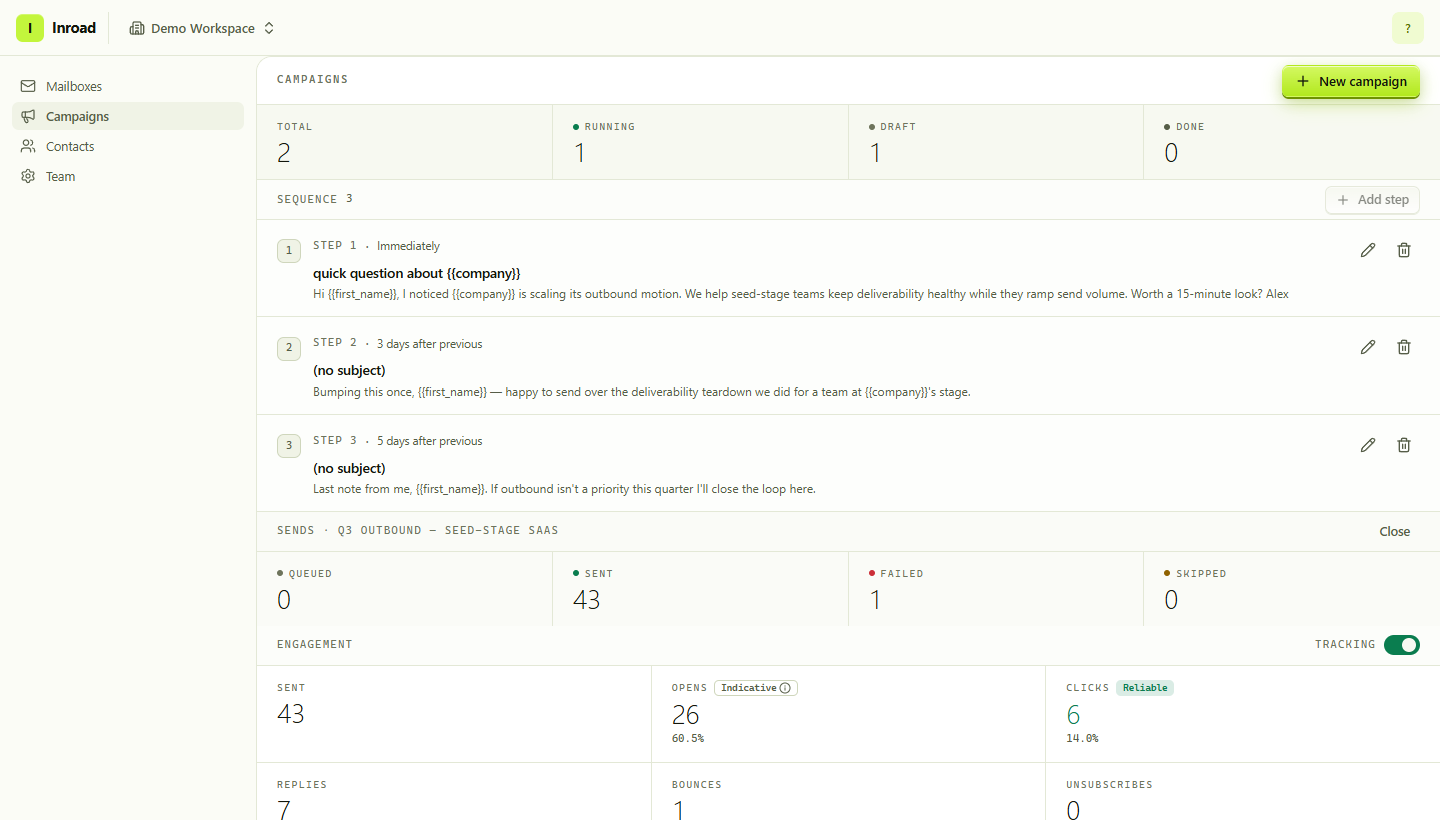
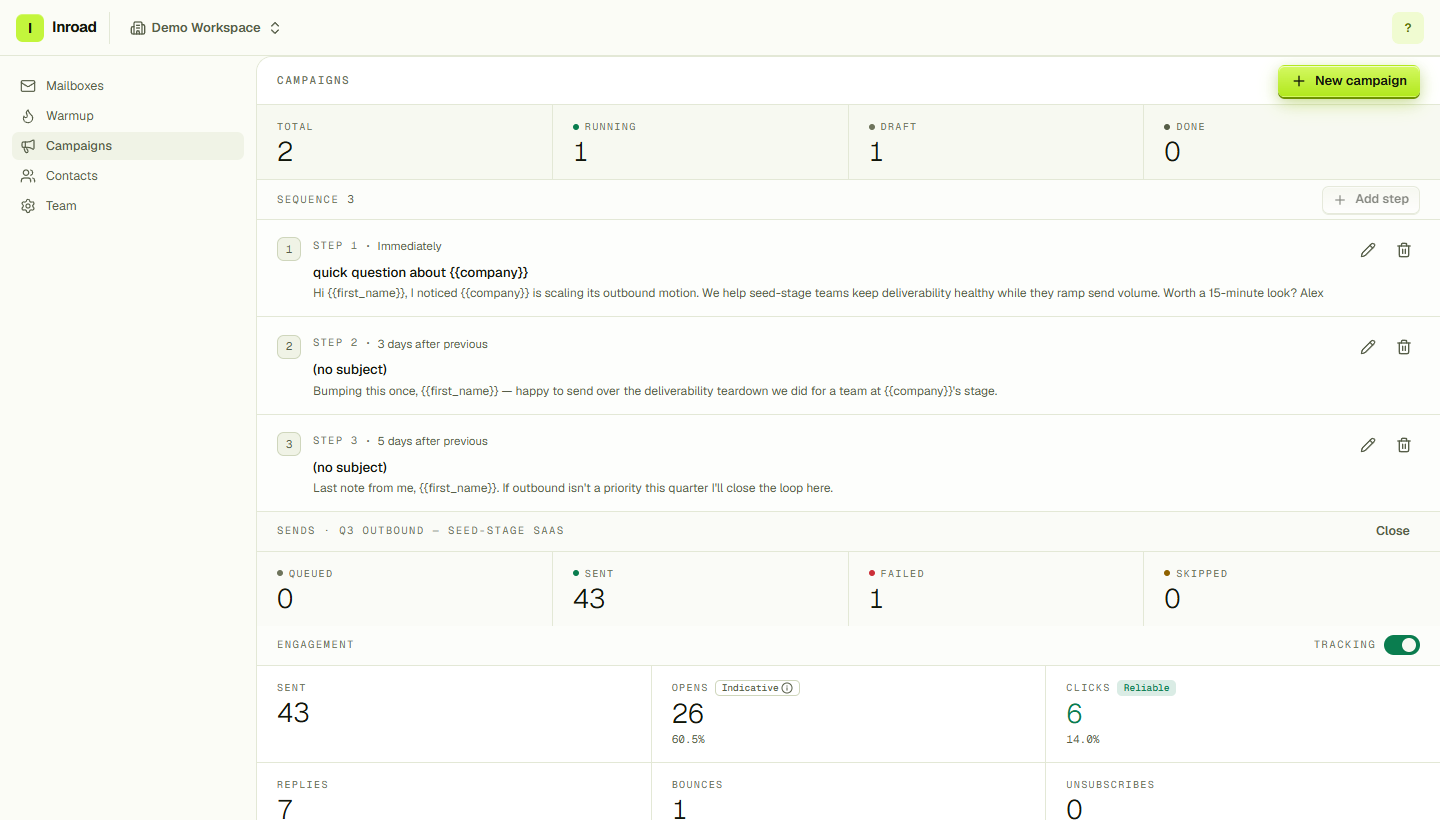
updated docs and general cleanup

diff --git a/web/src/styles/globals.css b/web/src/styles/globals.css
@@ -1,6 +1,15 @@
 @import "tailwindcss";
 @import "tw-animate-css";
 
+/* Typeface — Geist Sans + Geist Mono (SIL OFL 1.1), self-hosted.
+   Bundled from node_modules by Vite, so there is no runtime webfont CDN and
+   nothing to allow in the CSP; the `unicode-range` subsets mean a latin
+   reader downloads only the latin woff2. Variable (100–900), so the whole
+   type scale — font-light stat values through font-semibold buttons — comes
+   from one file per subset. */
+@import "@fontsource-variable/geist";
+@import "@fontsource-variable/geist-mono";
+
 /* Light is the default theme; add `.dark` on <html> to switch. */
 @custom-variant dark (&:where(.dark, .dark *));
 
@@ -180,8 +189,10 @@
   --radius-lg: var(--radius);
   --radius-xl: calc(var(--radius) + 4px);
 
-  --font-sans: system-ui, -apple-system, "Segoe UI", Roboto, Helvetica, Arial, sans-serif;
-  --font-mono: ui-monospace, "Cascadia Code", "JetBrains Mono", "SF Mono", Menlo, Consolas, monospace;
+  /* The system stack stays as the fallback so a failed font load degrades to
+     the OS UI face rather than to Times. */
+  --font-sans: "Geist Variable", system-ui, -apple-system, "Segoe UI", Roboto, Helvetica, Arial, sans-serif;
+  --font-mono: "Geist Mono Variable", ui-monospace, "Cascadia Code", "JetBrains Mono", "SF Mono", Menlo, Consolas, monospace;
 }
 
 body {

diff --git a/docs/architecture.md b/docs/architecture.md
@@ -61,3 +61,19 @@ Once `processMessage` (`internal/worker/inbox/poll.go`) matches an inbound messa
 - **Everything else (`positive`/`negative`/`neutral`/`unknown`) → stop, tagged.** Routes to `MarkReplied`, which stops the enrollment (reason `replied`) and records the sentiment.
 
 The verdict persists on `sequence_enrollments` — `reply_class`, `reply_source`, `reply_confidence`, `replied_at` (migration `000014`, all nullable, with a CHECK pinning `reply_class` to the seven classes or NULL). A legacy direct-send match (no enrollment) still suppresses on opt-out; the tagged enrollment writes no-op coreapi-side.
+
+**Warm-up mail bypasses this path entirely.** Before classification, `processInbound` checks for a verified `X-Inroad-Warmup` token; a warm-up message is recorded and returns *before* `processMessage`, so it never reaches reply/bounce handling (see the Warm-up engine below and `docs/security.md` invariant 25).
+
+## Warm-up engine
+Warm-up builds and maintains mailbox sender reputation by having a workspace's own opted-in mailboxes exchange low-volume, human-looking mail and engage with it the way a real recipient would. It reuses the existing send seam, SSRF guard, claim-before-send idempotency, `coreapi` boundary, and workspace-pinning — it adds no new worker→DB path. Design spec: `docs/superpowers/specs/2026-07-26-warmup-engine-design.md`; migration `000018_warmup` (+ `000019` receipt locator).
+
+- **Pool model — workspace-local.** A mailbox only warms other enabled, healthy participants in the SAME workspace (`warmup_participants`), so every query stays `workspace_id`-pinned and no mail crosses tenants. A workspace needs ≥2 participants; below that the engine idles (surfaced in the UI).
+- **The loop.** (1) **Send** — the `warmup:tick` worker claims and sends a warm-up email from a mailbox to a chosen partner: a new thread, or (weighted by the participant's `reply_rate`) a reply on an existing open thread. Content comes from a curated static library behind an injected `warmup.ContentGenerator` seam (an AI generator drops in later, exactly like the reply-classifier's `ModelClassifier`). Each send carries a signed `X-Inroad-Warmup` receipt token. (2) **Detect** — the recipient's inbox poller scans INBOX *and* the provider's spam folder, verifies the token, records a `warmup_receipt` with the placement (inbox / spam / other), and — critically — **isolates** the message from campaign classification. (3) **Engage** — a delayed `warmup:engage` task rescues the message from spam (IMAP `MOVE`, Gmail label modify), marks it read, and sometimes replies in-thread (a new warm-up send with its own claim + token). (4) **Health** — placement is attributed to the **sender** (`warmup_sends.from_mailbox`); `EvaluateWarmupHealth` rolls a trailing spam-placement rate into a state machine `healthy → watch → throttled → paused` that dampens the next ramp target and, when paused, halts sending until a clean window elapses.
+- **Scheduling.** A `warmup:sweep` scheduler tick (`@every 5m`) fans out due mailboxes (ramp target from `warmup.RampTarget` + a deterministic per-day volume factor + jitter, minus the send/spacing already used today) and runs the health evaluation. The send worker also lazily chains the next tick after each send.
+- **Seams.** Control plane: `internal/app/warmup/` (store/service/handler for the `PUT/DELETE/GET /mailboxes/{id}/warmup` + `GET /warmup/overview` API) and the `coreapi` warm-up methods (send-job, claim, receipt, engage-job, health). Execution plane: `internal/worker/warmup/{send,engage,sweep}.go` + the receipt hook in `internal/worker/inbox/poll.go`. Pure, offline, testable helpers (content library, HMAC token, ramp/jitter/health math) live in `internal/platform/warmup/`; the recipient-side write actions are behind the `mail.Engager` seam (IMAP + Gmail; M365 is a documented follow-up).
+
+## Worker routing & transport
+Two pieces of distributed-worker groundwork landed with warm-up (they are transport-neutral and used by campaign sends too, once wired):
+
+- **Transport-bus seam (`internal/platform/bus`).** A small `Dispatcher`/`PeriodicScheduler` interface expressing delivery *intent* (deliver-once, deliver-at, deliver-after, periodic). The only shipped implementation is `redisbus` over the existing asynq client; a Kafka/NATS implementation drops in without touching domain or worker code — the same "interface + one impl" pattern as `coreapi` and the reply-classifier model seam. (See ADR 0002.)
+- **Per-IP worker routing.** A worker heartbeats into a global `workers` registry with its `INROAD_WORKER_ID` + optional `INROAD_WORKER_EGRESS_IP`; `AssignMailboxWorker` least-loaded-assigns each mailbox to a live worker (`mailbox_worker_assignments`, workspace-pinned; migration `000017`) so a mailbox's outbound mail consistently egresses from one worker/IP. The worker's outbound dialer binds that egress IP as the *source* address only — it never bypasses the `vetAddr` destination check (`docs/security.md` invariants 22–24). Single-node dev degrades cleanly to a shared default queue.

diff --git a/docs/security.md b/docs/security.md
@@ -215,6 +215,47 @@ or SSRF. (Not a full threat model; that's future work.)
     registry is global infrastructure state — it holds no tenant rows and is never
     returned on a tenant-facing API.
 
+## Warm-up engine
+25. **Warm-up mail is strictly isolated from campaign reply/bounce handling.** The
+    inbox poller detects a warm-up message (invariant 26) and records it BEFORE
+    campaign classification, then returns — a warm-up message never reaches
+    `MarkReplied`/`MarkBounced`/`MarkUnsubscribed`/`RecordReplyClass`, even when its
+    `In-Reply-To`/`References` match a real prior send. So warm-up traffic can never
+    stop, suppress, or bounce a campaign enrollment (`internal/worker/inbox/poll.go`,
+    proven by `TestPollInboxWarmupRecordedEngagedAndIsolated` — same message, opposite
+    outcome, gated only on token validity).
+26. **A message is treated as warm-up only after its HMAC token verifies.** Every
+    warm-up send carries an `X-Inroad-Warmup` header signed with a per-deployment
+    secret (`INROAD_WARMUP_SECRET`, ≥16 bytes, falling back to `JWTSecret`);
+    `warmup.Verify` is a constant-time HMAC check AND the signed payload's
+    `workspace_id` must equal the polled mailbox's workspace. An absent, unsigned,
+    forged, or cross-workspace header falls through to normal classification —
+    an external party without the secret cannot forge one, so cannot swallow a real
+    reply as "warm-up" or inject a cross-tenant receipt.
+27. **Every warm-up query is `workspace_id`-pinned, every insert self-enforces
+    tenancy, and delivery is claim-idempotent.** Partner selection stays in-workspace
+    (a mailbox never warms a foreign peer); `warmup_threads`/`warmup_sends`/
+    `warmup_receipts` inserts are `INSERT … SELECT … FROM mailboxes WHERE id=$ AND
+    workspace_id=$` so a mismatched pair writes zero rows (upholds invariant 4);
+    the warm-up send + reply reuse the same claim-before-send lease as campaign sends
+    (deterministic id → a retry recovers-forward, never double-sends), and a receipt
+    is idempotent on `(warmup_send_id, recipient_mailbox)`.
+28. **Recipient-side engagement acts only on the recipient's own mailbox, through the
+    same guarded dials, and never builds raw IMAP commands from message content.**
+    The rescue-from-spam / mark-read / reply transport is resolved by a
+    `workspace_id`-pinned lookup for that receipt's recipient — an attacker cannot
+    steer it to another mailbox or tenant. IMAP dials go through the same `vetAddr`
+    SSRF guard + source-IP bind as the poller (Gmail/Graph use fixed hosts). The
+    attacker-influenceable `Message-ID` and source-folder are passed as go-imap
+    quoted/literal protocol arguments (`SEARCH HEADER`, `SELECT`), never
+    string-concatenated — no IMAP command injection (`TestSearchByMessageIDInjectionSafe`).
+29. **Inbox-vs-spam placement is attributed to the SENDER, not the observing
+    recipient.** A warm-up message landing in spam degrades the *sender's* health
+    (its outbound mail is not landing), resolved via `warmup_sends.from_mailbox`; the
+    recipient only observes it. Attributing spam to the recipient would invert the
+    health signal — punishing the innocent inbox owner and never flagging the bad
+    sender.
+
 ## Deferred (documented, not yet built)
 - Cloud KMS as a second `KeyProvider` (KEK) behind the existing seam — today only
   `LocalKeyProvider` (wraps DEKs under `INROAD_MASTER_KEY`) is implemented.
@@ -230,6 +271,13 @@ or SSRF. (Not a full threat model; that's future work.)
   the contact or stops its enrollment. This is bounded (no cross-tenant effect, no
   data read) but unthrottled and unlogged today; a rate limit + audit trail on
   reply-driven state changes is the intended hardening.
+- Rate limiting + an audit log on warm-up engagement writes. Like the reply path
+  (above), the receipt/engage enqueue is workspace-bounded but spoofable WITHIN a
+  workspace by anyone holding the `INROAD_WARMUP_SECRET`. Bounded and low-value, but
+  it should be included when the reply-driven abuse-controls work lands.
+- Graph/M365 recipient-side engagement (rescue/mark-read). Warm-up SENDS work on all
+  three transports; the `mail.Engager` seam implements IMAP + Gmail, and M365 returns
+  `ErrEngageUnsupported` (a logged skip) until the Graph modify path is added.
 
 ## Checklist for a security-sensitive change
 - [ ] New stored credential? → sealed via a workspace Sealer from

diff --git a/README.md b/README.md
@@ -46,7 +46,8 @@ infrastructure than rent it.
 |---|---|
 | **Multi-step sequences** | Ordered steps with per-step delays, drag-to-reorder, and `{{first_name}}` / `{{company}}` merge fields. Structural edits are draft-only; copy edits stay live on a running campaign. |
 | **Three transports, one seam** | Gmail API, Microsoft Graph, and SMTP/IMAP behind a single `MultiSender`. The worker doesn't know or care which one it's using. |
-| **Warm-up ramp + daily caps** | Every mailbox ramps linearly from a small starting cap to its full daily cap over N days. The cap is enforced on the send path — over-cap enrollments defer and retry, and a permanently mis-set cap fails out instead of looping forever. |
+| **Mailbox warm-up pool** | Mailboxes you enable exchange real threaded mail with each other on a ramping daily volume — recipient-side, Inroad rescues the message from spam, marks it read, and sometimes replies in-thread. Per-mailbox health (`healthy` / `watch` / `at risk`) is recomputed from measured inbox-vs-spam placement, and a mailbox that goes bad is paused instead of pushed. |
+| **Ramp + daily caps on campaigns** | Every mailbox ramps linearly from a small starting cap to its full daily cap over N days. The cap is enforced on the send path — over-cap enrollments defer and retry, and a permanently mis-set cap fails out instead of looping forever. |
 | **Reply detection & classification** | IMAP / Gmail history / Graph delta polling matches replies to the original send and classifies them — positive, negative, neutral, auto-reply, out-of-office, unsubscribe — with zero AI dependency and no network calls. |
 | **Out-of-office trap fix** | A vacation auto-responder gets tagged but does *not* halt the sequence. An explicit opt-out inside an auto-reply still suppresses, because compliance wins. |
 | **Bounce handling** | DSN parsing on inbound mail; hard bounces mark the send and stop the enrollment before the next step fires. |
@@ -92,6 +93,15 @@ applied to the connection test *and* to every subsequent send, so a mailbox can 
 downgrade to cleartext auth.
 
 ![Connect an SMTP mailbox](docs/images/connect-mailbox.png)
+
+### Warm them up
+
+Enable warmup on two or more mailboxes and they start exchanging real threaded mail on a ramping
+daily volume. Health is measured, not assumed — inbox-vs-spam placement over the trailing week
+decides whether a mailbox reads as healthy, watch, or at risk, and a mailbox that turns bad gets
+paused rather than pushed harder. Orange is reserved for this one concept in the whole product.
+
+![Warmup pool with per-mailbox health](docs/images/warmup.png)
 
 ### Import contacts
 
@@ -274,14 +284,14 @@ integration tests; what isn't built is listed here rather than implied by a feat
 
 **Working today:** multi-workspace auth with refresh-token rotation and reuse detection · Gmail /
 M365 / SMTP mailbox connect · multi-step sequences with reorder · enrollment engine with ramp-aware
-daily caps · reply and bounce polling across all three transports · deterministic reply
-classification · suppression and one-click unsubscribe · open/click tracking.
+daily caps · the warmup pool end-to-end (ramping volume, threaded replies, rescue-from-spam,
+mark-read, measured placement health, per-IP worker routing) · reply and bounce polling across all
+three transports · deterministic reply classification · suppression and one-click unsubscribe ·
+open/click tracking.
 
-**On the roadmap:** a peer-to-peer warm-up pool (mailboxes seeding conversations with each other —
-today the `warmup` tick is a placeholder and the ramped *daily cap* is what's enforced) ·
-enforcement of the per-mailbox minimum send interval (stored and editable, not yet applied at send
-time) · a unified cross-mailbox inbox UI · cloud KMS as a second `KeyProvider` · rate limiting and an
-audit log on auth, connect, and reply-driven suppression · a key-rotation CLI.
+**On the roadmap:** enforcement of the per-mailbox minimum send interval (stored and editable, not
+yet applied at send time) · a unified cross-mailbox inbox UI · cloud KMS as a second `KeyProvider` ·
+rate limiting and an audit log on auth, connect, and reply-driven suppression · a key-rotation CLI.
 
 ---
 

diff --git a/docs/frontend-design.md b/docs/frontend-design.md
@@ -98,14 +98,24 @@ stay distinguishable for the most common colorblindness types.
 
 ## 3. Typography
 
-The Artifact/Tailwind CSP and self-hosting posture mean we don't depend on a webfont CDN at runtime. The
-identity is carried by a **system UI stack for prose and a monospace for data** — which is also honest to
-the developer/deliverability audience.
+The typeface is **Geist Sans for prose and Geist Mono for data** — a matched pair designed for developer
+tooling, which is honest to the developer/deliverability audience and gives the console a consistent
+identity instead of one that changes with the operator's OS.
+
+Both are **self-hosted**, installed as `@fontsource-variable/geist` / `-geist-mono` and `@import`ed at the
+top of `globals.css`, so Vite bundles the woff2 from `node_modules`. There is **no runtime webfont CDN**
+and nothing to allow in the CSP — the original constraint is satisfied by bundling, not by giving up on a
+typeface. The faces are variable (100–900), so the whole scale below comes from one file per subset, and
+`unicode-range` subsetting means a latin reader downloads ~51 KB total (29 KB sans + 23 KB mono). Only the
+upright faces are imported; nothing in the app sets `italic`.
 
 | Role | Stack | Used for |
 |---|---|---|
-| `font-sans` | `system-ui, -apple-system, "Segoe UI", Roboto, …` | UI text, headings, body |
-| `font-mono` | `ui-monospace, "Cascadia Code", "JetBrains Mono", Menlo, …` | Numbers, IDs, labels, eyebrows |
+| `font-sans` | `"Geist Variable", system-ui, -apple-system, "Segoe UI", …` | UI text, headings, body |
+| `font-mono` | `"Geist Mono Variable", ui-monospace, "Cascadia Code", …` | Numbers, IDs, labels, eyebrows |
+
+The system stack is retained behind each as the fallback, so a failed font load degrades to the OS UI face
+rather than to Times.
 
 Type scale (dense by design):
 
